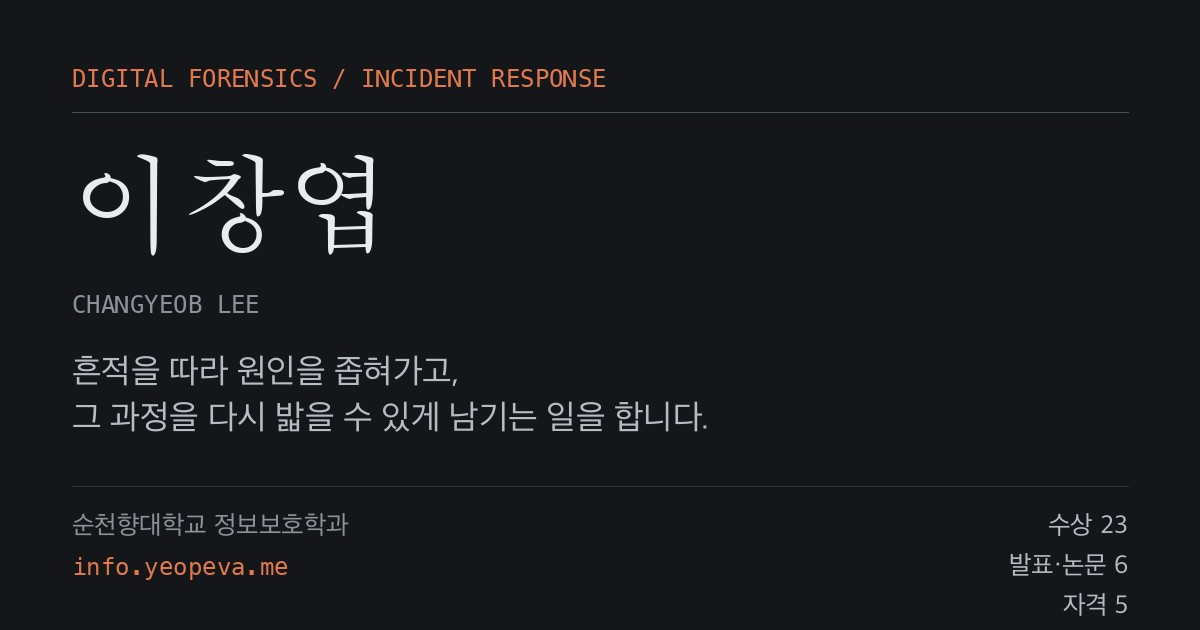
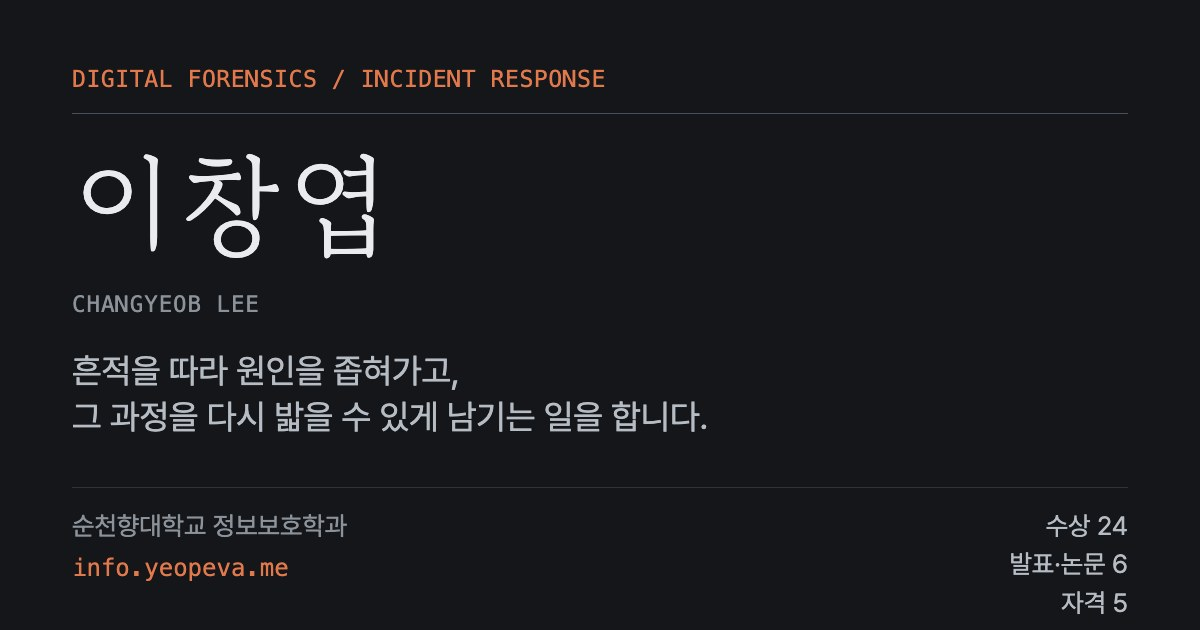
fix: 공유 미리보기 카드 수상 23 -> 24, 카드 생성 스크립트 추가
링크를 공유하면 사이트보다 먼저 보이는 og-card.jpg 에 "수상 23" 이 박혀
있었다. ATHENA 2026 을 추가하며 사이트 집계는 24 로 고쳤지만 카드는
이미지라 그대로였다. 생성 방법도 저장소에 남아 있지 않았다.

- tools/og-card.html + tools/og-card.js: index.html 의 .tally 에서 숫자를
  읽어 1200x630 카드를 렌더한다. 기존 카드와 모든 줄의 위치가 2px 이내로
  같고 숫자만 다르다
- tools/ 는 방문자용이 아니므로 robots.txt 에서 제외하고 카드 원본에
  noindex 를 붙였다. README 모바일 점검 스크립트도 tools/ 를 건너뛴다
  (1200px 고정 폭이라 가로 넘침으로 잡힌다)

논문 6쪽 첫 그림의 loading="lazy" 해제 (+ fetchpriority="high")
  제목 바로 아래(본문 52~136자 뒤) 그림이라 첫 화면에 걸린다. card-hacking
  은 이 그림이 LCP 요소이고 Lighthouse 가 "LCP 그림 lazy" 로 감점하고
  있었다. 수정 후 감점이 사라지고 3회 모두 100 (수정 전 77·100·100).
  stellar-agent-paper 는 LCP 요소가 제목이라 변화 없음을 확인했다. 그림이
  한참 아래인 프로젝트 2쪽(본문 505·864자 뒤)은 lazy 를 유지한다.

README: 집계가 세 곳(.tally · .sec-meta · 카드)에 적힌다는 주의, 체크리스트에
카드 재생성과 첫 화면 그림 lazy 금지 항목 추가.

검증: 3-6 집계 OK, 모바일 6개 폭 x 5개 지표 0, axe 156회 0건, 깨진 링크 0.

diff --git a/tools/og-card.html b/tools/og-card.html
@@ -1,0 +1,35 @@
+<!doctype html>
+<!-- 공유 미리보기 카드(1200×630) 원본. 직접 열지 말고 tools/og-card.js 로 렌더합니다.
+     숫자(수상·발표·논문·자격)는 스크립트가 index.html 의 .tally 에서 읽어 채웁니다 —
+     카드에 손으로 쓰면 사이트와 어긋납니다(수상 23 으로 한 달 넘게 남아 있었습니다). -->
+<html lang="ko"><head><meta charset="utf-8">
+<meta name="robots" content="noindex">
+<link rel="stylesheet" href="https://fonts.googleapis.com/css2?family=Gowun+Batang:wght@400;700&display=block">
+<link rel="stylesheet" href="https://cdn.jsdelivr.net/gh/orioncactus/pretendard@v1.3.9/dist/web/static/pretendard.min.css">
+<style>
+  *{ margin:0; box-sizing:border-box; }
+  html,body{ width:1200px; height:630px; background:#14161a; }
+  body{ padding:65px 72px 0; color:#e9ebee; font-family:"Pretendard",sans-serif; position:relative; }
+  .mono{ font-family:"SFMono-Regular",ui-monospace,Menlo,monospace; }
+  .ref{ font-size:23.2px; letter-spacing:.02em; color:#e2794c; }
+  .rule{ height:1px; background:#474e5a; margin:21px 0 0; }
+  h1{ font-family:"Gowun Batang",serif; font-weight:400; font-size:110px; line-height:1; letter-spacing:.084em; margin:32px 0 0 3px; }
+  .latin{ font-size:22.5px; letter-spacing:.04em; color:#8b9299; margin-top:35px; }
+  .lead{ font-size:34.3px; line-height:1.34; color:#b6bcc3; margin-top:31px; letter-spacing:-.005em; }
+  .foot{ position:absolute; left:72px; right:72px; top:487px; border-top:1px solid #2c313a; padding-top:22px;
+         display:flex; justify-content:space-between; align-items:flex-start; }
+  .school{ font-size:25.9px; color:#8b9299; }
+  .url{ font-size:24px; color:#e2794c; margin-top:13px; }
+  .tally{ text-align:right; font-size:25.9px; line-height:1.48; color:#b6bcc3; margin-top:-3px; }
+</style></head>
+<body>
+  <p class="ref mono">DIGITAL FORENSICS / INCIDENT RESPONSE</p>
+  <div class="rule"></div>
+  <h1>이창엽</h1>
+  <p class="latin mono">CHANGYEOB LEE</p>
+  <p class="lead">흔적을 따라 원인을 좁혀가고,<br>그 과정을 다시 밟을 수 있게 남기는 일을 합니다.</p>
+  <div class="foot">
+    <div><p class="school">순천향대학교 정보보호학과</p><p class="url mono">info.yeopeva.me</p></div>
+    <div class="tally"><p>수상 <span id="t-award">?</span></p><p>발표·논문 <span id="t-pub">?</span></p><p>자격 <span id="t-cert">?</span></p></div>
+  </div>
+</body></html>

diff --git a/tools/og-card.js b/tools/og-card.js
@@ -1,0 +1,18 @@
+// 공유 미리보기 카드 생성: node tools/og-card.js   (site/ 에서, playwright 필요)
+// index.html 의 .tally 숫자를 읽어 tools/og-card.html 에 채운 뒤 1200×630 JPG 로 렌더합니다.
+const {chromium}=require('playwright');const fs=require('fs');const path=require('path');
+(async()=>{
+  const idx=fs.readFileSync(path.join(__dirname,'..','index.html'),'utf8');
+  const get=k=>{const m=idx.match(new RegExp(k+' <b>(\\d+)</b>'));if(!m)throw new Error('tally 없음: '+k);return m[1]};
+  const t={award:get('수상'),pub:get('발표·논문'),cert:get('자격')};
+  const b=await chromium.launch();const p=await b.newPage({viewport:{width:1200,height:630},deviceScaleFactor:1});
+  await p.goto('file://'+path.join(__dirname,'og-card.html'),{waitUntil:'networkidle'});
+  await p.evaluate(t=>{for(const k in t)document.getElementById('t-'+k).textContent=t[k]},t);
+  await p.evaluate(()=>document.fonts.ready);
+  const ok=await p.evaluate(()=>document.fonts.check('110px "Gowun Batang"','이창엽'));
+  if(!ok) throw new Error('Gowun Batang 폰트 로드 실패 — 네트워크 확인');
+  const out=path.join(__dirname,'..','assets','images','og-card.jpg');
+  await p.screenshot({path:out,type:'jpeg',quality:88});
+  await b.close();
+  console.log(`og-card.jpg 생성 — 수상 ${t.award} · 발표·논문 ${t.pub} · 자격 ${t.cert}`);
+})();

diff --git a/publications/secondhand-platform-proposal.html b/publications/secondhand-platform-proposal.html
@@ -84,7 +84,7 @@
         <p>중고거래 사기 게시물을 탐지하고 사용자에게 알리는 플랫폼을 제안한 발표 논문입니다. BoB 9기 프로젝트의 초기 결과를 학술대회에 발표한 것입니다.</p>
         <figure class="doc-figure">
           <a class="doc-figure-link" href="../assets/figures/secondhand-platform-proposal-abstract.webp" target="_blank" rel="noopener"><img src="../assets/figures/secondhand-platform-proposal-abstract.webp" alt="중고 거래 사기 방지 플랫폼 제안 논문의 제목과 요약"
-               width="1080" height="410" loading="lazy" decoding="async"></a>
+               width="1080" height="410" fetchpriority="high" decoding="async"></a>
           <figcaption><b>논문 요약.</b> 한국정보보호학회 동계학술대회(CISC-W 2020) 발표본의 제목과 요약입니다.<span class="doc-figure-note">WEBP&nbsp;· 1080×410</span></figcaption>
         </figure>
 

diff --git a/publications/card-hacking.html b/publications/card-hacking.html
@@ -83,7 +83,7 @@
         <p>카드 결제 환경을 대상으로 하는 해킹 기법의 유형과 문제점을 조사하고, 이용자·발급사 관점에서 취할 수 있는 대비 방안을 정리한 발표 논문입니다.</p>
         <figure class="doc-figure">
           <a class="doc-figure-link" href="../assets/figures/card-hacking-abstract.webp" target="_blank" rel="noopener"><img src="../assets/figures/card-hacking-abstract.webp" alt="카드해킹의 문제점과 대비방안 논문의 제목과 요약"
-               width="1080" height="404" loading="lazy" decoding="async"></a>
+               width="1080" height="404" fetchpriority="high" decoding="async"></a>
           <figcaption><b>논문 요약.</b> 한국정보보호학회 동계학술대회(CISC-W 2018) 발표본의 제목과 요약입니다.<span class="doc-figure-note">WEBP&nbsp;· 1080×404</span></figcaption>
         </figure>
 

diff --git a/publications/apt-incident-review.html b/publications/apt-incident-review.html
@@ -83,7 +83,7 @@
         <p>국내에서 발생한 APT 공격과 기업 보안 사고 사례를 조사하고, 침해사고 대응 관점에서 시사점을 정리한 발표 논문입니다.</p>
         <figure class="doc-figure">
           <a class="doc-figure-link" href="../assets/figures/apt-incident-review-abstract.webp" target="_blank" rel="noopener"><img src="../assets/figures/apt-incident-review-abstract.webp" alt="국내 APT 및 기업 보안 사고에 대한 고찰 논문의 제목과 요약"
-               width="1080" height="381" loading="lazy" decoding="async"></a>
+               width="1080" height="381" fetchpriority="high" decoding="async"></a>
           <figcaption><b>논문 요약.</b> 한국정보보호학회 동계학술대회(CISC-W 2019) 발표본의 제목과 요약입니다.<span class="doc-figure-note">WEBP&nbsp;· 1080×381</span></figcaption>
         </figure>
 

diff --git a/publications/rfid-skimming.html b/publications/rfid-skimming.html
@@ -83,7 +83,7 @@
         <p>RFID 태그를 대상으로 하는 Skimming 공격의 동작 원리를 분석하고, 물리적·기술적 대응 방향을 정리한 발표 논문입니다.</p>
         <figure class="doc-figure">
           <a class="doc-figure-link" href="../assets/figures/rfid-skimming-abstract.webp" target="_blank" rel="noopener"><img src="../assets/figures/rfid-skimming-abstract.webp" alt="RFID Skimming 해킹 기법에 관한 고찰 논문의 제목과 요약"
-               width="1080" height="388" loading="lazy" decoding="async"></a>
+               width="1080" height="388" fetchpriority="high" decoding="async"></a>
           <figcaption><b>논문 요약.</b> 한국정보보호학회 동계학술대회(CISC-W 2017) 발표본의 제목과 요약입니다.<span class="doc-figure-note">WEBP&nbsp;· 1080×388</span></figcaption>
         </figure>
 

diff --git a/publications/stellar-agent-paper.html b/publications/stellar-agent-paper.html
@@ -88,7 +88,7 @@
         </ul>
         <figure class="doc-figure">
           <a class="doc-figure-link" href="../assets/figures/stellar-agent-paper-abstract.webp" target="_blank" rel="noopener"><img src="../assets/figures/stellar-agent-paper-abstract.webp" alt="Stellar-Agent 논문의 제목과 국문 요약"
-               width="1080" height="746" loading="lazy" decoding="async"></a>
+               width="1080" height="746" fetchpriority="high" decoding="async"></a>
           <figcaption><b>논문 요약.</b> 2025 한국데이터사이언스학회 동계 종합학술대회 논문집 수록본의 제목과 국문 요약입니다.<span class="doc-figure-note">WEBP&nbsp;· 1080×746</span></figcaption>
         </figure>
 

diff --git a/publications/online-fraud-prevention.html b/publications/online-fraud-prevention.html
@@ -88,7 +88,7 @@
         </ul>
         <figure class="doc-figure">
           <a class="doc-figure-link" href="../assets/figures/online-fraud-prevention-abstract.webp" target="_blank" rel="noopener"><img src="../assets/figures/online-fraud-prevention-abstract.webp" alt="온라인 직거래 사기 사전 예방 논문의 제목과 국문 요약"
-               width="1080" height="876" loading="lazy" decoding="async"></a>
+               width="1080" height="876" fetchpriority="high" decoding="async"></a>
           <figcaption><b>논문 요약.</b> 경찰학연구 제21권 제1호 게재본의 제목과 국문 요약입니다.<span class="doc-figure-note">WEBP&nbsp;· 1080×876</span></figcaption>
         </figure>
 

diff --git a/README.md b/README.md
@@ -640,8 +640,10 @@ cp <새-사진-경로> site/assets/images/profile.jpeg
 |---|---|---|
 | 수상 | 본문 목록 행 − 디범찾 1행 + 디범찾 개별 건수 + 부록 건수 | 11 + 4 + 9 = **24** |
 
-> 같은 숫자가 **두 곳**에 적힙니다 — `#about` 의 `.tally`(`수상 <b>24</b>`)와 `#awards` 의 `.sec-meta`(`24건 · 2017–2026`).
-> 아래 스크립트는 `.tally` 만 검사하므로, `.sec-meta` 의 연도 범위도 함께 눈으로 확인하세요.
+> 같은 숫자가 **세 곳**에 적힙니다 — `#about` 의 `.tally`(`수상 <b>24</b>`), `#awards` 의 `.sec-meta`(`24건 · 2017–2026`),
+> 그리고 **공유 미리보기 카드**(`assets/images/og-card.jpg`). 아래 스크립트는 `.tally` 만 검사하므로 `.sec-meta` 는 눈으로 확인하고,
+> 카드는 `.tally` 를 고친 뒤 **`node tools/og-card.js` 로 다시 만듭니다**(숫자를 `.tally` 에서 읽습니다).
+> 카드는 한 달 넘게 `수상 23` 으로 남아 있었습니다 — 링크를 공유하면 사이트보다 먼저 보이는 이미지입니다.
 | 발표·논문 | 논문 목록 행 수 | **6** |
 | 연구·커뮤니티 | 경험 목록 행 수 | **6** |
 | 자격 | 자격 목록 중 **`만료` 배지가 없는 것만** | 7건 중 만료 2건 제외 = **5** |
@@ -948,7 +950,7 @@ EOF
 ```bash
 cd site && python3 -m http.server 8080 & sleep 1 && node - <<'EOF'
 const {webkit}=require('playwright');const fs=require('fs');
-const pages=require('child_process').execSync("find . -name '*.html' -not -path './node_modules/*' | sed 's|^./||'").toString().trim().split('\n');
+const pages=require('child_process').execSync("find . -name '*.html' -not -path './node_modules/*' -not -path './tools/*' | sed 's|^./||'").toString().trim().split('\n');
 (async()=>{const b=await webkit.launch();
  for(const W of [320,360,375,390,412,420]){
   const c=await b.newContext({viewport:{width:W,height:9000},isMobile:true,hasTouch:true});const p=await c.newPage();
@@ -1122,6 +1124,8 @@ EOF
 - [ ] `index.html`의 요약과 상세 페이지 본문 내용이 일치하는가 (자동 검사 대상 아님)
 - [ ] masthead `.mini-ledger` 의 진행 중·최근 수상이 최신인가 (3-1 표 참고)
 - [ ] 수상·논문·경험을 늘렸다면 **3-6 검산 스크립트를 그대로** 돌렸는가 — `#about` 의 `.tally` 와 `#awards` 의 `.sec-meta` 는 **서로 다른 두 곳**이다. 한쪽만 고치고 넘어간 적이 있다
+- [ ] 수상·논문·자격 집계가 바뀌었다면 **`node tools/og-card.js`** 로 공유 카드를 다시 만들었는가 (3-6)
+- [ ] 첫 화면에 걸리는 본문 그림에 `loading="lazy"` 가 없는가 — 논문 6쪽은 제목 바로 아래 그림이라 `fetchpriority="high"` 로 둡니다. Lighthouse 가 "LCP 그림 lazy" 로 감점합니다
 - [ ] **모바일 점검 스크립트**(4장 `모바일 가독성`)를 돌려 6개 폭에서 다섯 지표가 모두 0 인가
 - [ ] Lighthouse 는 **프리셋 없이**(기본 = 모바일, 느린 4G + CPU 4배 감속) 돌렸는가. `--preset=mobile` 은 없는 값입니다 — 데스크톱은 `--preset=desktop`. 같은 페이지도 회차마다 10점 가까이 흔들리므로 **2회 이상** 재고, 변경 전후 비교는 같은 조건의 로컬 서버로 합니다
 - [ ] 새 그림이 `.doc-figure-link` 로 감싸져 있는가 (3-4-3)
